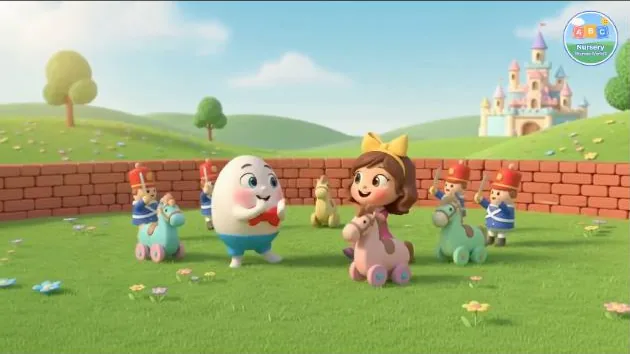
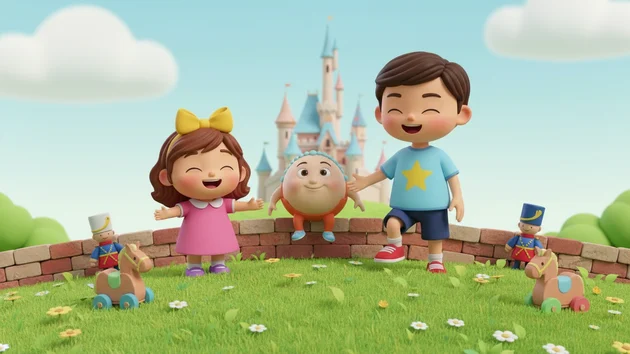
Website pictures: Alayna and Hamad
Claude-Session: https://claude.ai/code/session_01GgcymjaMS6vVXG87TSpXFJ

diff --git a/index.html b/index.html
@@ -214,7 +214,7 @@
         </div>
       </div>
       <div class="screen">
-        <img src="hero.webp" alt="Alayna and Humpty Dumpty playing with toy horses and soldiers on a green hill" width="630" height="354">
+        <img src="hero.webp" alt="Alayna and her big brother Hamad playing with Humpty Dumpty, toy horses and soldiers on a green hill" width="630" height="354">
         <span class="tag">Humpty Dumpty in 3D</span>
       </div>
     </div>
@@ -255,7 +255,7 @@
 
   <section id="parents" class="parents">
     <div class="wrap split">
-      <img class="pic" src="bus.webp" alt="The smiling yellow bus with Alayna and her friends waving at a playground" width="630" height="320" loading="lazy">
+      <img class="pic" src="bus.webp" alt="Alayna and Hamad waving from the smiling yellow bus at a playground" width="630" height="320" loading="lazy">
       <div>
         <h2>Viewers</h2>
         <p class="section-lede">Short, cheerful songs that help toddlers and preschoolers learn English through singing.</p>
